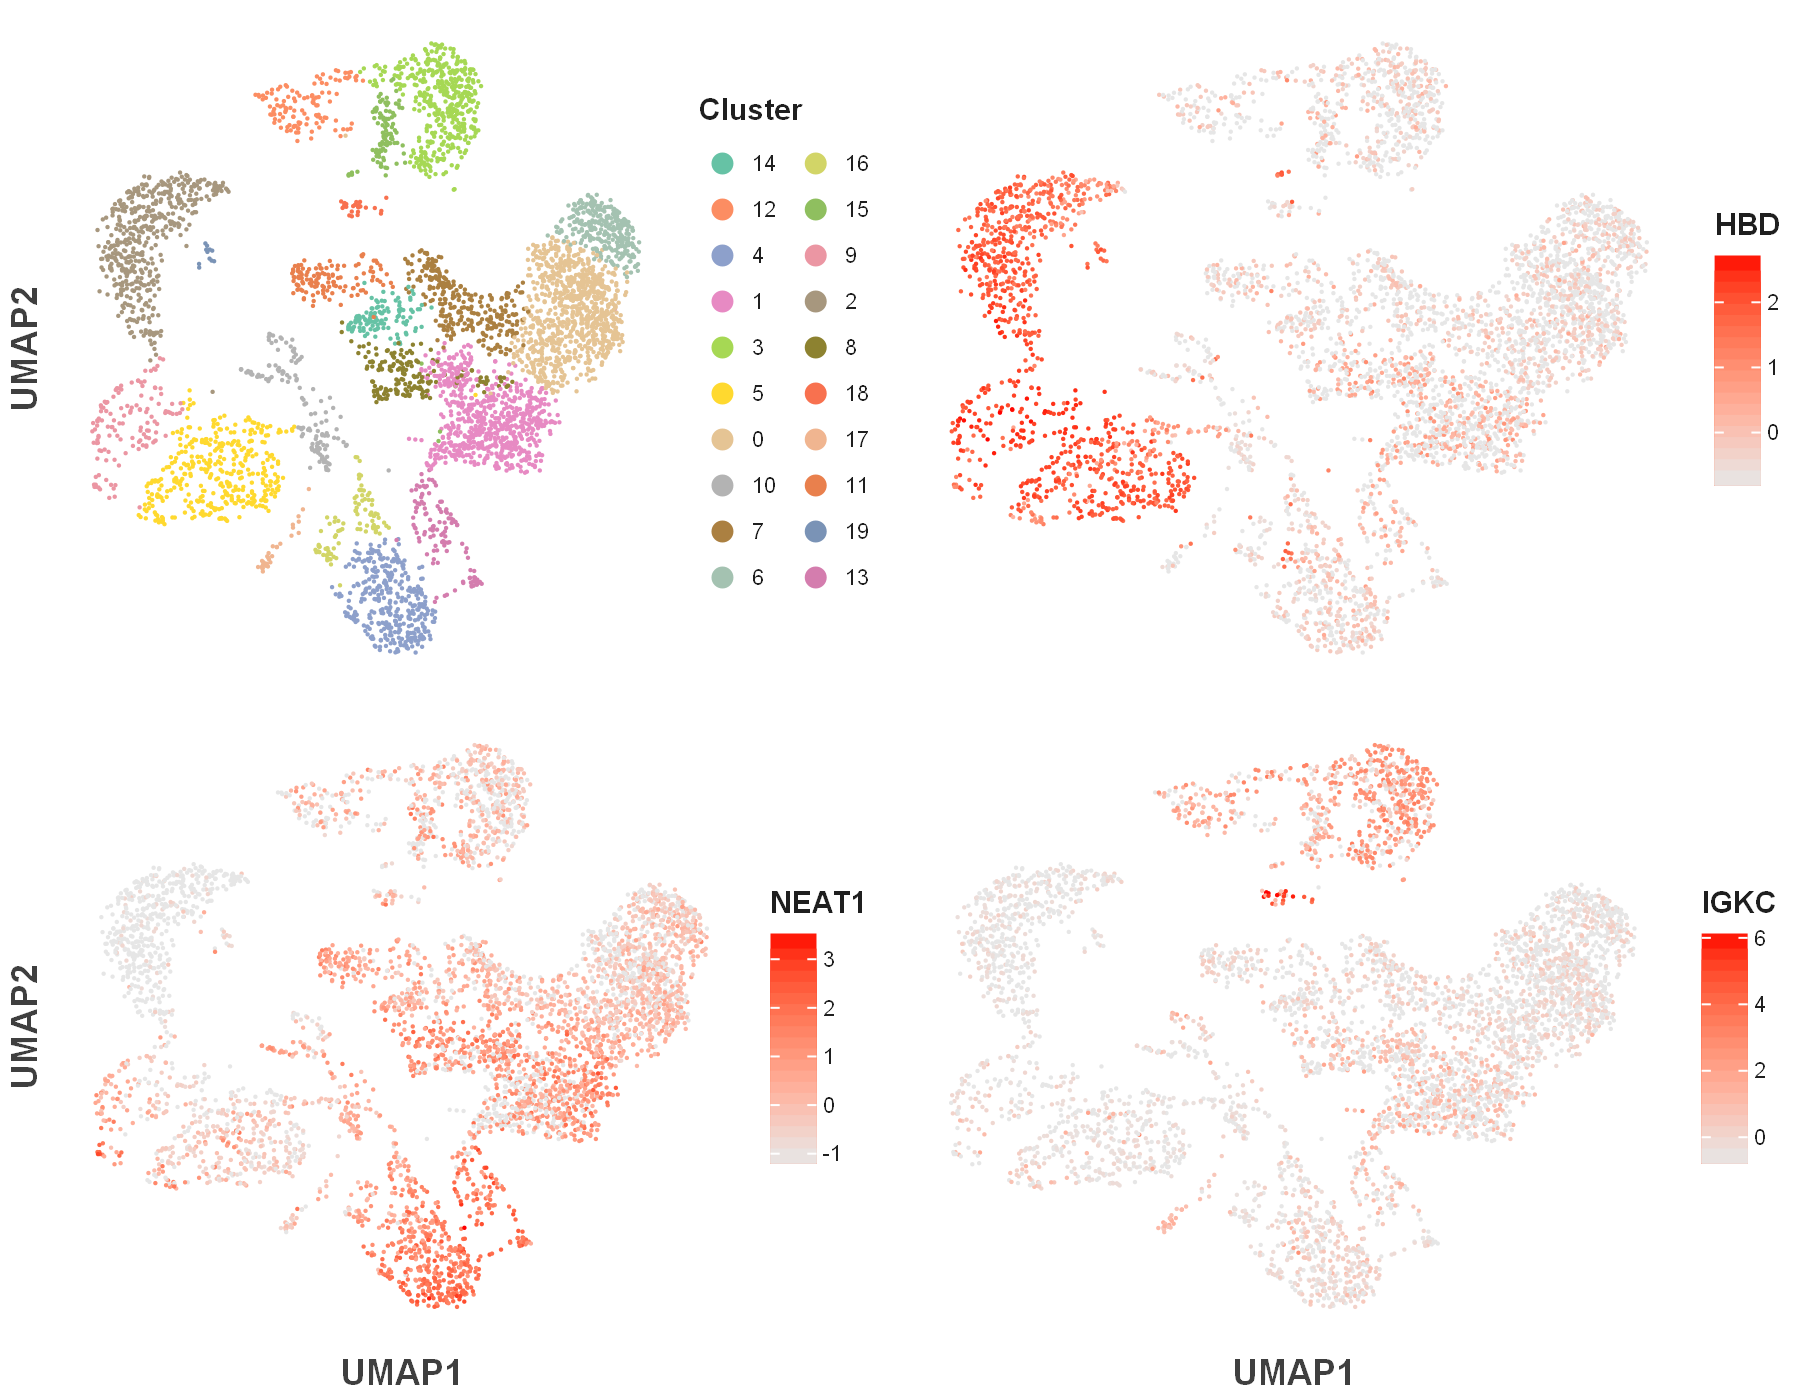
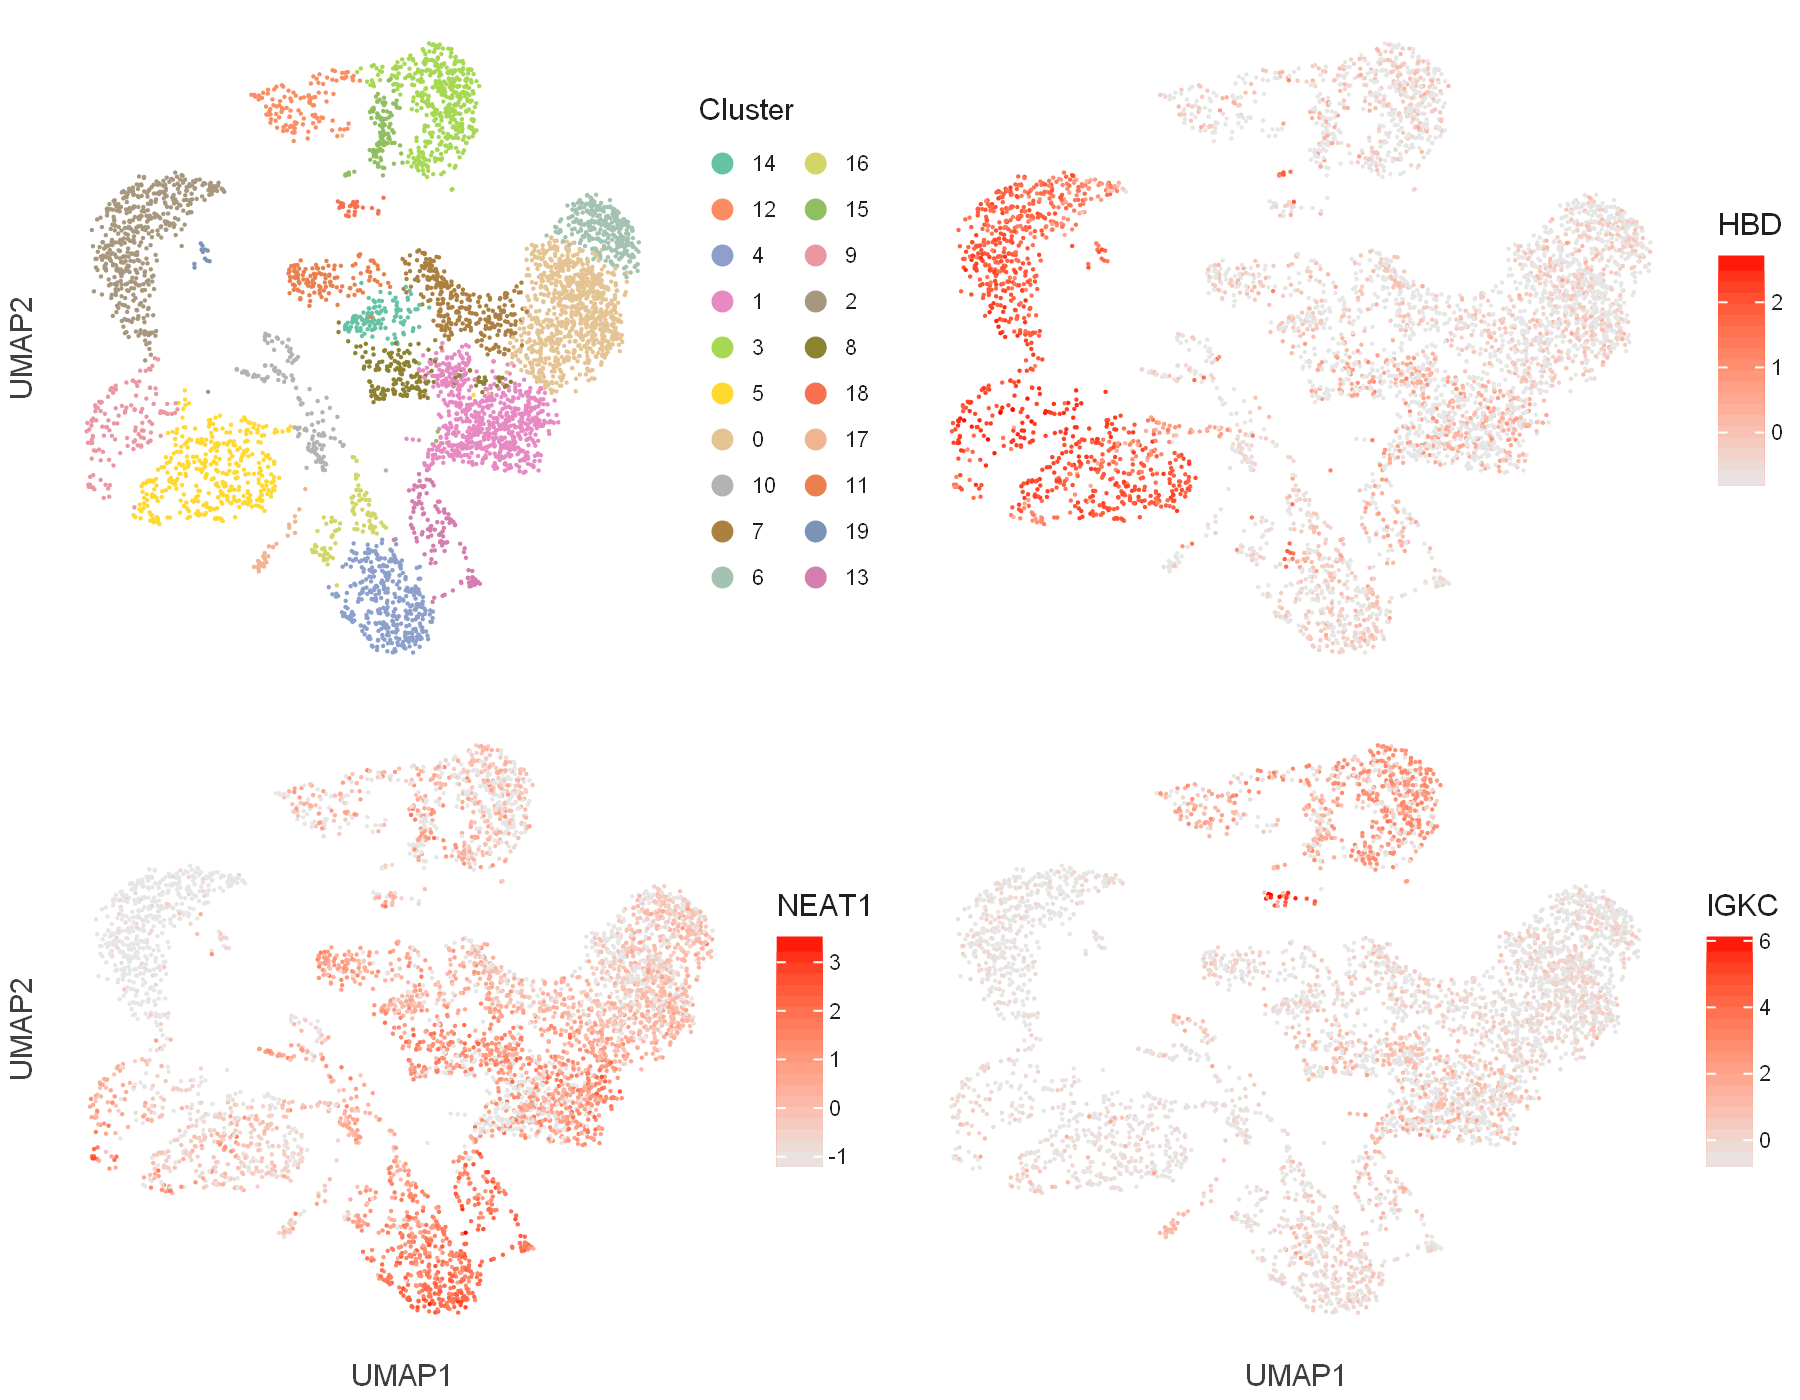
grids args to multi dim plots

diff --git a/cellestial/single/core/grids.py b/cellestial/single/core/grids.py
@@ -1,7 +1,7 @@
 from __future__ import annotations
 
 from math import ceil
-from typing import TYPE_CHECKING, Iterable, Literal
+from typing import TYPE_CHECKING, Any, Iterable, Literal
 
 from lets_plot import element_blank, gggrid, theme
 
@@ -30,11 +30,9 @@ def _share_labels(plot, i:int, keys:list[str], ncol:int):
 def dimensionals(
     data: AnnData,
     keys: list[str] | tuple[str] | Iterable[str] = ("leiden",),
-    ncol: int | None = None,
     *,
     dimensions: Literal["umap", "pca", "tsne"] = "umap",
     size: float = 0.8,
-    point_shape: int = 16,
     interactive: bool = False,  # used by interactive decorator
     cluster_name: str = "Cluster",
     barcode_name: str = "Barcode",
@@ -43,10 +41,21 @@ def dimensionals(
     share_labels: bool = True,
     axis_type: Literal["axis", "arrow"] | None = None,
     arrow_length: float = 0.25,
-    arrow_size: float = 3,
+    arrow_size: float = 1,
     arrow_color: str = "#3f3f3f",
-    arrow_angle: float = 20,
+    arrow_angle: float = 10,
     layers: list | tuple | Iterable | None = None,
+    # grid args
+    ncol: int | None = None,
+    sharex: str | None = None,
+    sharey: str | None = None,
+    widths: list | None = None,
+    heights: list | None = None,
+    hspace: float | None = None,
+    vspace: float | None = None,
+    fit: bool | None = None,
+    align: bool | None = None,
+    **point_kwargs: dict[str, Any],
 ) -> SupPlotsSpec:
     grid = []
 
@@ -56,7 +65,6 @@ def dimensionals(
             key=key,
             dimensions=dimensions,
             size=size,
-            point_shape=point_shape,
             interactive=interactive,
             cluster_name=cluster_name,
             barcode_name=barcode_name,
@@ -67,6 +75,7 @@ def dimensionals(
             arrow_size=arrow_size,
             arrow_color=arrow_color,
             arrow_angle=arrow_angle,
+            **point_kwargs,
         )
 
         if layers is not None:
@@ -83,10 +92,8 @@ def dimensionals(
 def umaps(
     data: AnnData,
     keys: list[str] | tuple[str] | Iterable[str] = ("leiden",),
-    ncol: int | None = None,
     *,
     size: float = 0.8,
-    point_shape: int = 16,
     interactive: bool = False,  # used by interactive decorator
     cluster_name: str = "Cluster",
     barcode_name: str = "Barcode",
@@ -95,20 +102,29 @@ def umaps(
     share_labels: bool = True,
     axis_type: Literal["axis", "arrow"] | None = None,
     arrow_length: float = 0.25,
-    arrow_size: float = 3,
+    arrow_size: float = 1,
     arrow_color: str = "#3f3f3f",
-    arrow_angle: float = 20,
+    arrow_angle: float = 10,
     layers: list | tuple | Iterable | None = None,
-    **kwargs
+    # grid args
+    ncol: int | None = None,
+    sharex: str | None = None,
+    sharey: str | None = None,
+    widths: list | None = None,
+    heights: list | None = None,
+    hspace: float | None = None,
+    vspace: float | None = None,
+    fit: bool | None = None,
+    align: bool | None = None,
+    **point_kwargs: dict[str, Any],
 ) -> SupPlotsSpec:
-    grid = []
+    plots = []
 
     for i, key in enumerate(keys):
         plot = umap(
             data=data,
             key=key,
             size=size,
-            point_shape=point_shape,
             interactive=interactive,
             cluster_name=cluster_name,
             barcode_name=barcode_name,
@@ -119,6 +135,7 @@ def umaps(
             arrow_size=arrow_size,
             arrow_color=arrow_color,
             arrow_angle=arrow_angle,
+            **point_kwargs,
         )
 
         if layers is not None:
@@ -127,17 +144,26 @@ def umaps(
         if share_labels:
             plot = _share_labels(plot, i, keys, ncol)
 
-        grid.append(plot)
+        plots.append(plot)
 
-    return gggrid(grid, ncol=ncol, **kwargs)
+    return gggrid(
+            plots,
+            ncol=ncol,
+            sharex=sharex,
+            sharey=sharey,
+            widths=widths,
+            heights=heights,
+            hspace=hspace,
+            vspace=vspace,
+            fit=fit,
+            align=align,
+        )
 
 def tsnes(
     data: AnnData,
     keys: list[str] | tuple[str] | Iterable[str] = ("leiden",),
-    ncol: int | None = None,
     *,
     size: float = 0.8,
-    point_shape: int = 16,
     interactive: bool = False,  # used by interactive decorator
     cluster_name: str = "Cluster",
     barcode_name: str = "Barcode",
@@ -146,19 +172,29 @@ def tsnes(
     share_labels: bool = True,
     axis_type: Literal["axis", "arrow"] | None = None,
     arrow_length: float = 0.25,
-    arrow_size: float = 3,
+    arrow_size: float = 1,
     arrow_color: str = "#3f3f3f",
-    arrow_angle: float = 20,
+    arrow_angle: float = 10,
     layers: list | tuple | Iterable | None = None,
+    # grid args
+    ncol: int | None = None,
+    sharex: str | None = None,
+    sharey: str | None = None,
+    widths: list | None = None,
+    heights: list | None = None,
+    hspace: float | None = None,
+    vspace: float | None = None,
+    fit: bool | None = None,
+    align: bool | None = None,
+    **point_kwargs: dict[str, Any],
 ) -> SupPlotsSpec:
-    grid = []
+    plots = []
 
     for i, key in enumerate(keys):
         plot = tsne(
             data=data,
             key=key,
             size=size,
-            point_shape=point_shape,
             interactive=interactive,
             cluster_name=cluster_name,
             barcode_name=barcode_name,
@@ -169,6 +205,7 @@ def tsnes(
             arrow_size=arrow_size,
             arrow_color=arrow_color,
             arrow_angle=arrow_angle,
+            **point_kwargs,
         )
 
         if layers is not None:
@@ -178,18 +215,27 @@ def tsnes(
         if share_labels:
             plot = _share_labels(plot, i, keys, ncol)
 
-        grid.append(plot)
+        plots.append(plot)
 
-    return gggrid(grid, ncol=ncol)
+    return gggrid(
+            plots,
+            ncol=ncol,
+            sharex=sharex,
+            sharey=sharey,
+            widths=widths,
+            heights=heights,
+            hspace=hspace,
+            vspace=vspace,
+            fit=fit,
+            align=align,
+        )
 
 
 def pcas(
     data: AnnData,
     keys: list[str] | tuple[str] | Iterable[str] = ("leiden",),
-    ncol: int | None = None,
     *,
     size: float = 0.8,
-    point_shape: int = 16,
     interactive: bool = False,  # used by interactive decorator
     cluster_name: str = "Cluster",
     barcode_name: str = "Barcode",
@@ -198,19 +244,29 @@ def pcas(
     share_labels: bool = True,
     axis_type: Literal["axis", "arrow"] | None = None,
     arrow_length: float = 0.25,
-    arrow_size: float = 3,
+    arrow_size: float = 1,
     arrow_color: str = "#3f3f3f",
-    arrow_angle: float = 20,
+    arrow_angle: float = 10,
     layers: list | tuple | Iterable | None = None,
+    # grid args
+    ncol: int | None = None,
+    sharex: str | None = None,
+    sharey: str | None = None,
+    widths: list | None = None,
+    heights: list | None = None,
+    hspace: float | None = None,
+    vspace: float | None = None,
+    fit: bool | None = None,
+    align: bool | None = None,
+    **point_kwargs: dict[str, Any],
 ) -> SupPlotsSpec:
-    grid = []
+    plots = []
 
     for i, key in enumerate(keys):
         plot = pca(
             data=data,
             key=key,
             size=size,
-            point_shape=point_shape,
             interactive=interactive,
             cluster_name=cluster_name,
             barcode_name=barcode_name,
@@ -221,6 +277,7 @@ def pcas(
             arrow_size=arrow_size,
             arrow_color=arrow_color,
             arrow_angle=arrow_angle,
+            **point_kwargs,
         )
 
         if layers is not None:
@@ -229,19 +286,28 @@ def pcas(
         if share_labels:
             plot = _share_labels(plot, i, keys, ncol)
 
-        grid.append(plot)
+        plots.append(plot)
 
-    return gggrid(grid, ncol=ncol)
+    return gggrid(
+            plots,
+            ncol=ncol,
+            sharex=sharex,
+            sharey=sharey,
+            widths=widths,
+            heights=heights,
+            hspace=hspace,
+            vspace=vspace,
+            fit=fit,
+            align=align,
+        )
 
 
 def expressions(
     data: AnnData,
     genes: list[str] | tuple[str] | Iterable[str] = ("leiden",),
-    ncol: int | None = None,
     *,
     dimensions: Literal["umap", "pca", "tsne"] = "umap",
     size: float = 0.8,
-    point_shape: int = 16,
     interactive: bool = False,  # used by interactive decorator
     cluster_name: str = "Cluster",
     cluster_type: Literal["leiden", "louvain"] | None = None,
@@ -251,12 +317,22 @@ def expressions(
     share_labels: bool = True,
     axis_type: Literal["axis", "arrow"] | None = None,
     arrow_length: float = 0.25,
-    arrow_size: float = 3,
+    arrow_size: float = 1,
     arrow_color: str = "#3f3f3f",
-    arrow_angle: float = 20,
+    arrow_angle: float = 10,
     layers: list | tuple | Iterable | None = None,
+    # grid args
+    ncol: int | None = None,
+    sharex: str | None = None,
+    sharey: str | None = None,
+    widths: list | None = None,
+    heights: list | None = None,
+    hspace: float | None = None,
+    vspace: float | None = None,
+    fit: bool | None = None,
+    align: bool | None = None,
 ) -> SupPlotsSpec:
-    grid = []
+    plots = []
 
     for i, gene in enumerate(genes):
         plot = expression(
@@ -264,7 +340,6 @@ def expressions(
             gene=gene,
             dimensions=dimensions,
             size=size,
-            point_shape=point_shape,
             interactive=interactive,
             cluster_name=cluster_name,
             cluster_type=cluster_type,
@@ -284,6 +359,17 @@ def expressions(
         if share_labels:
             plot = _share_labels(plot, i, genes, ncol)
 
-        grid.append(plot)
+        plots.append(plot)
 
-    return gggrid(grid, ncol=ncol)
+    return gggrid(
+            plots,
+            ncol=ncol,
+            sharex=sharex,
+            sharey=sharey,
+            widths=widths,
+            heights=heights,
+            hspace=hspace,
+            vspace=vspace,
+            fit=fit,
+            align=align,
+        )
